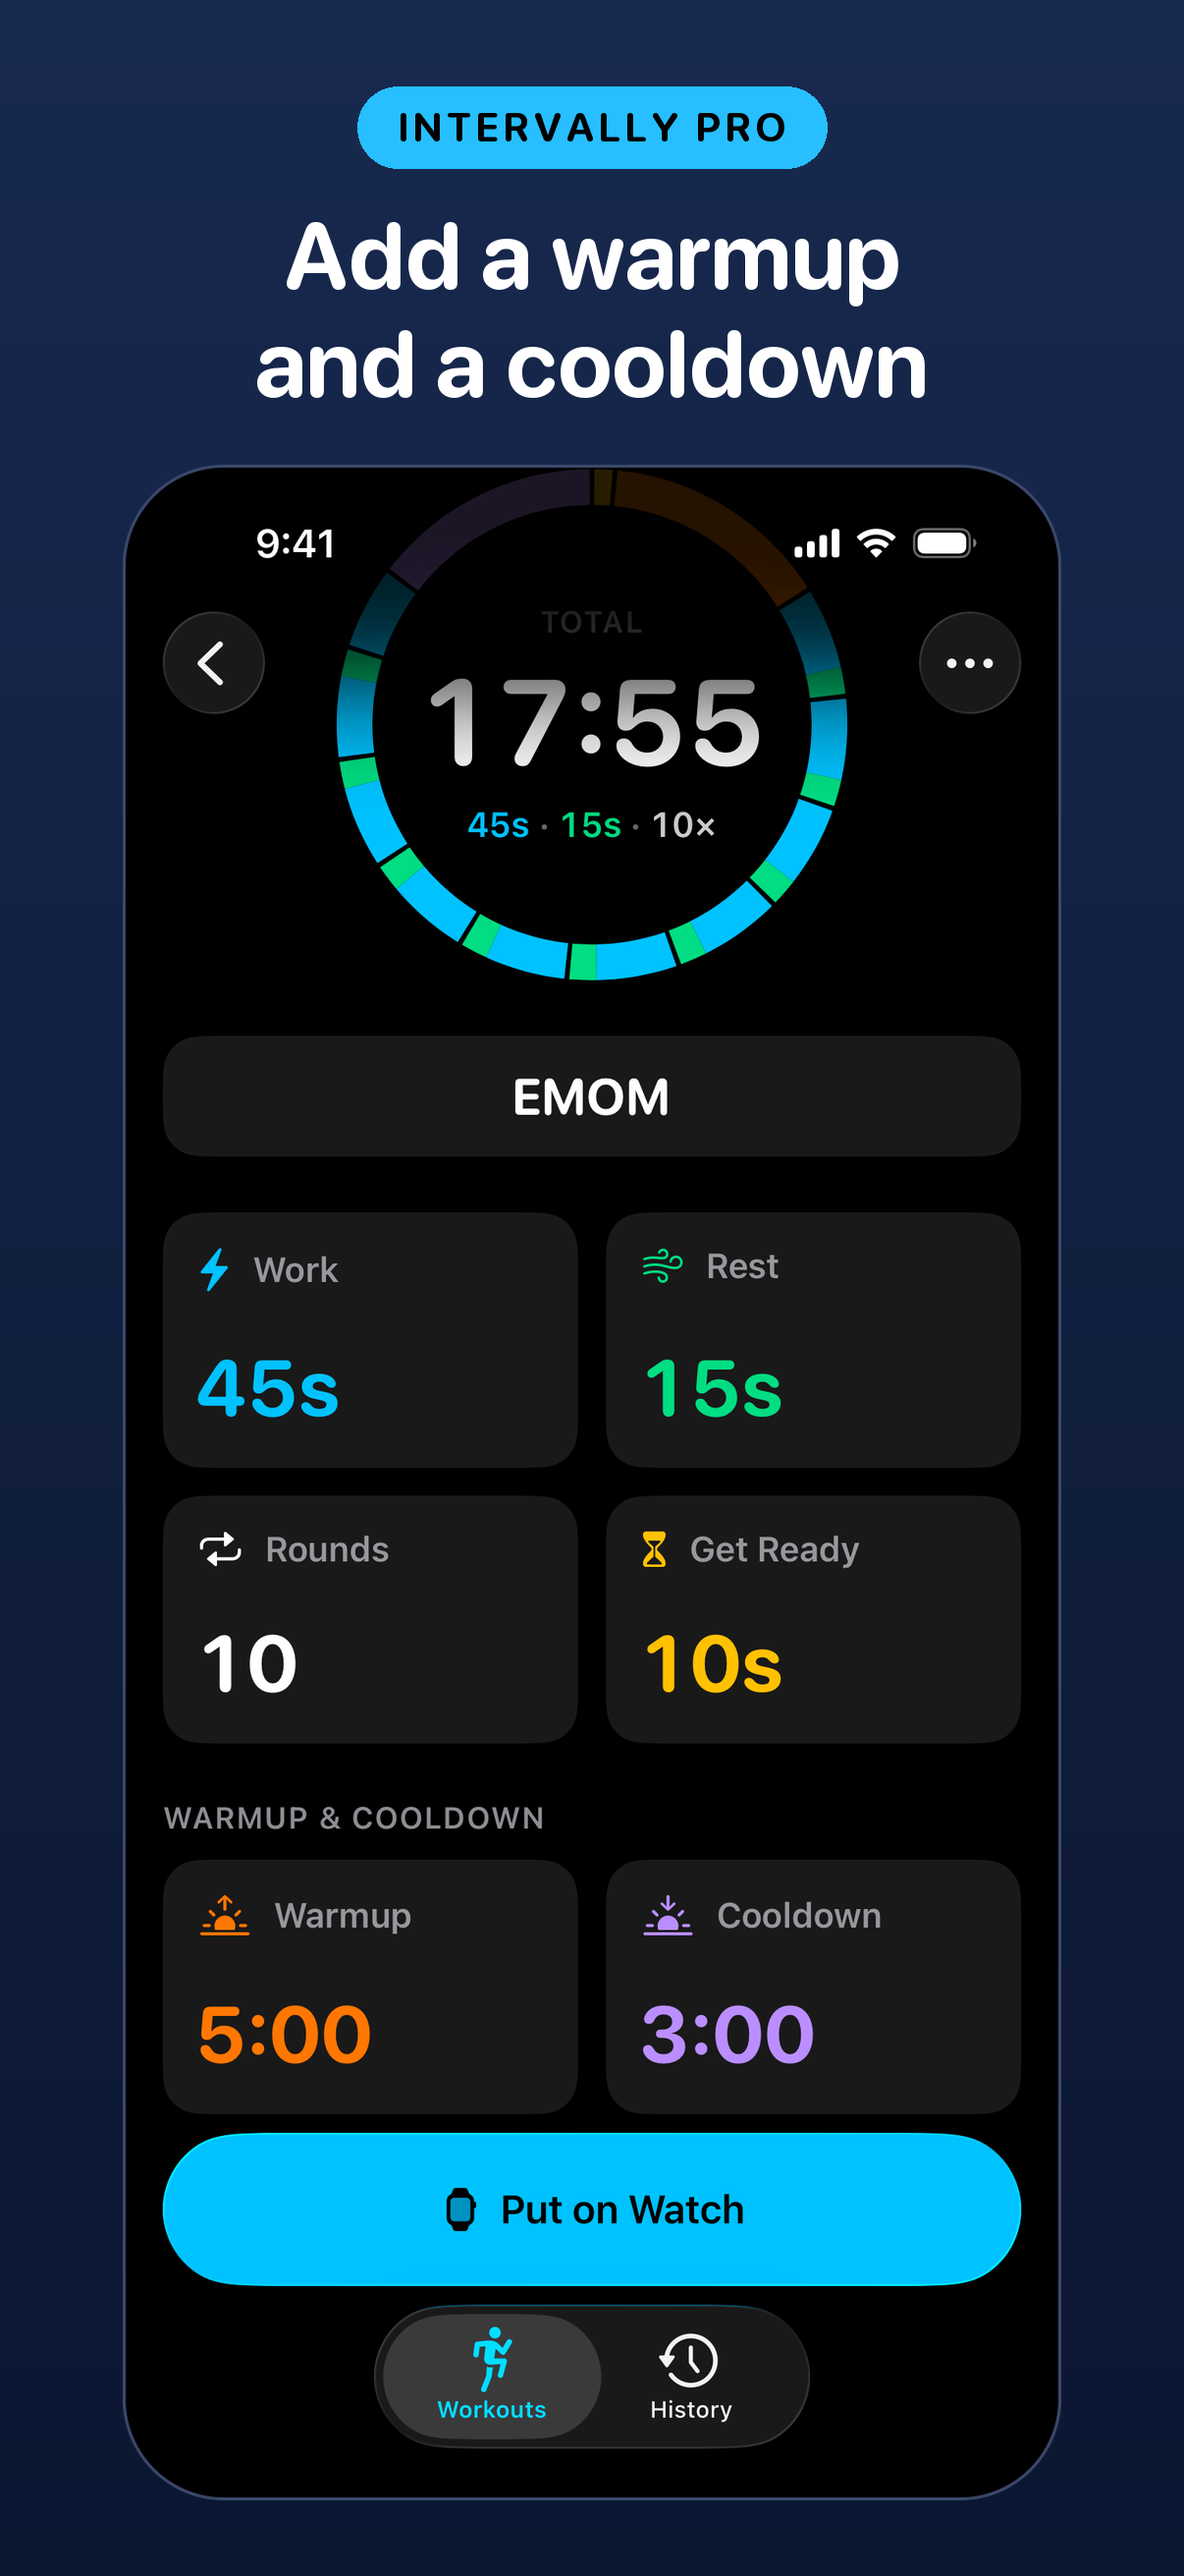
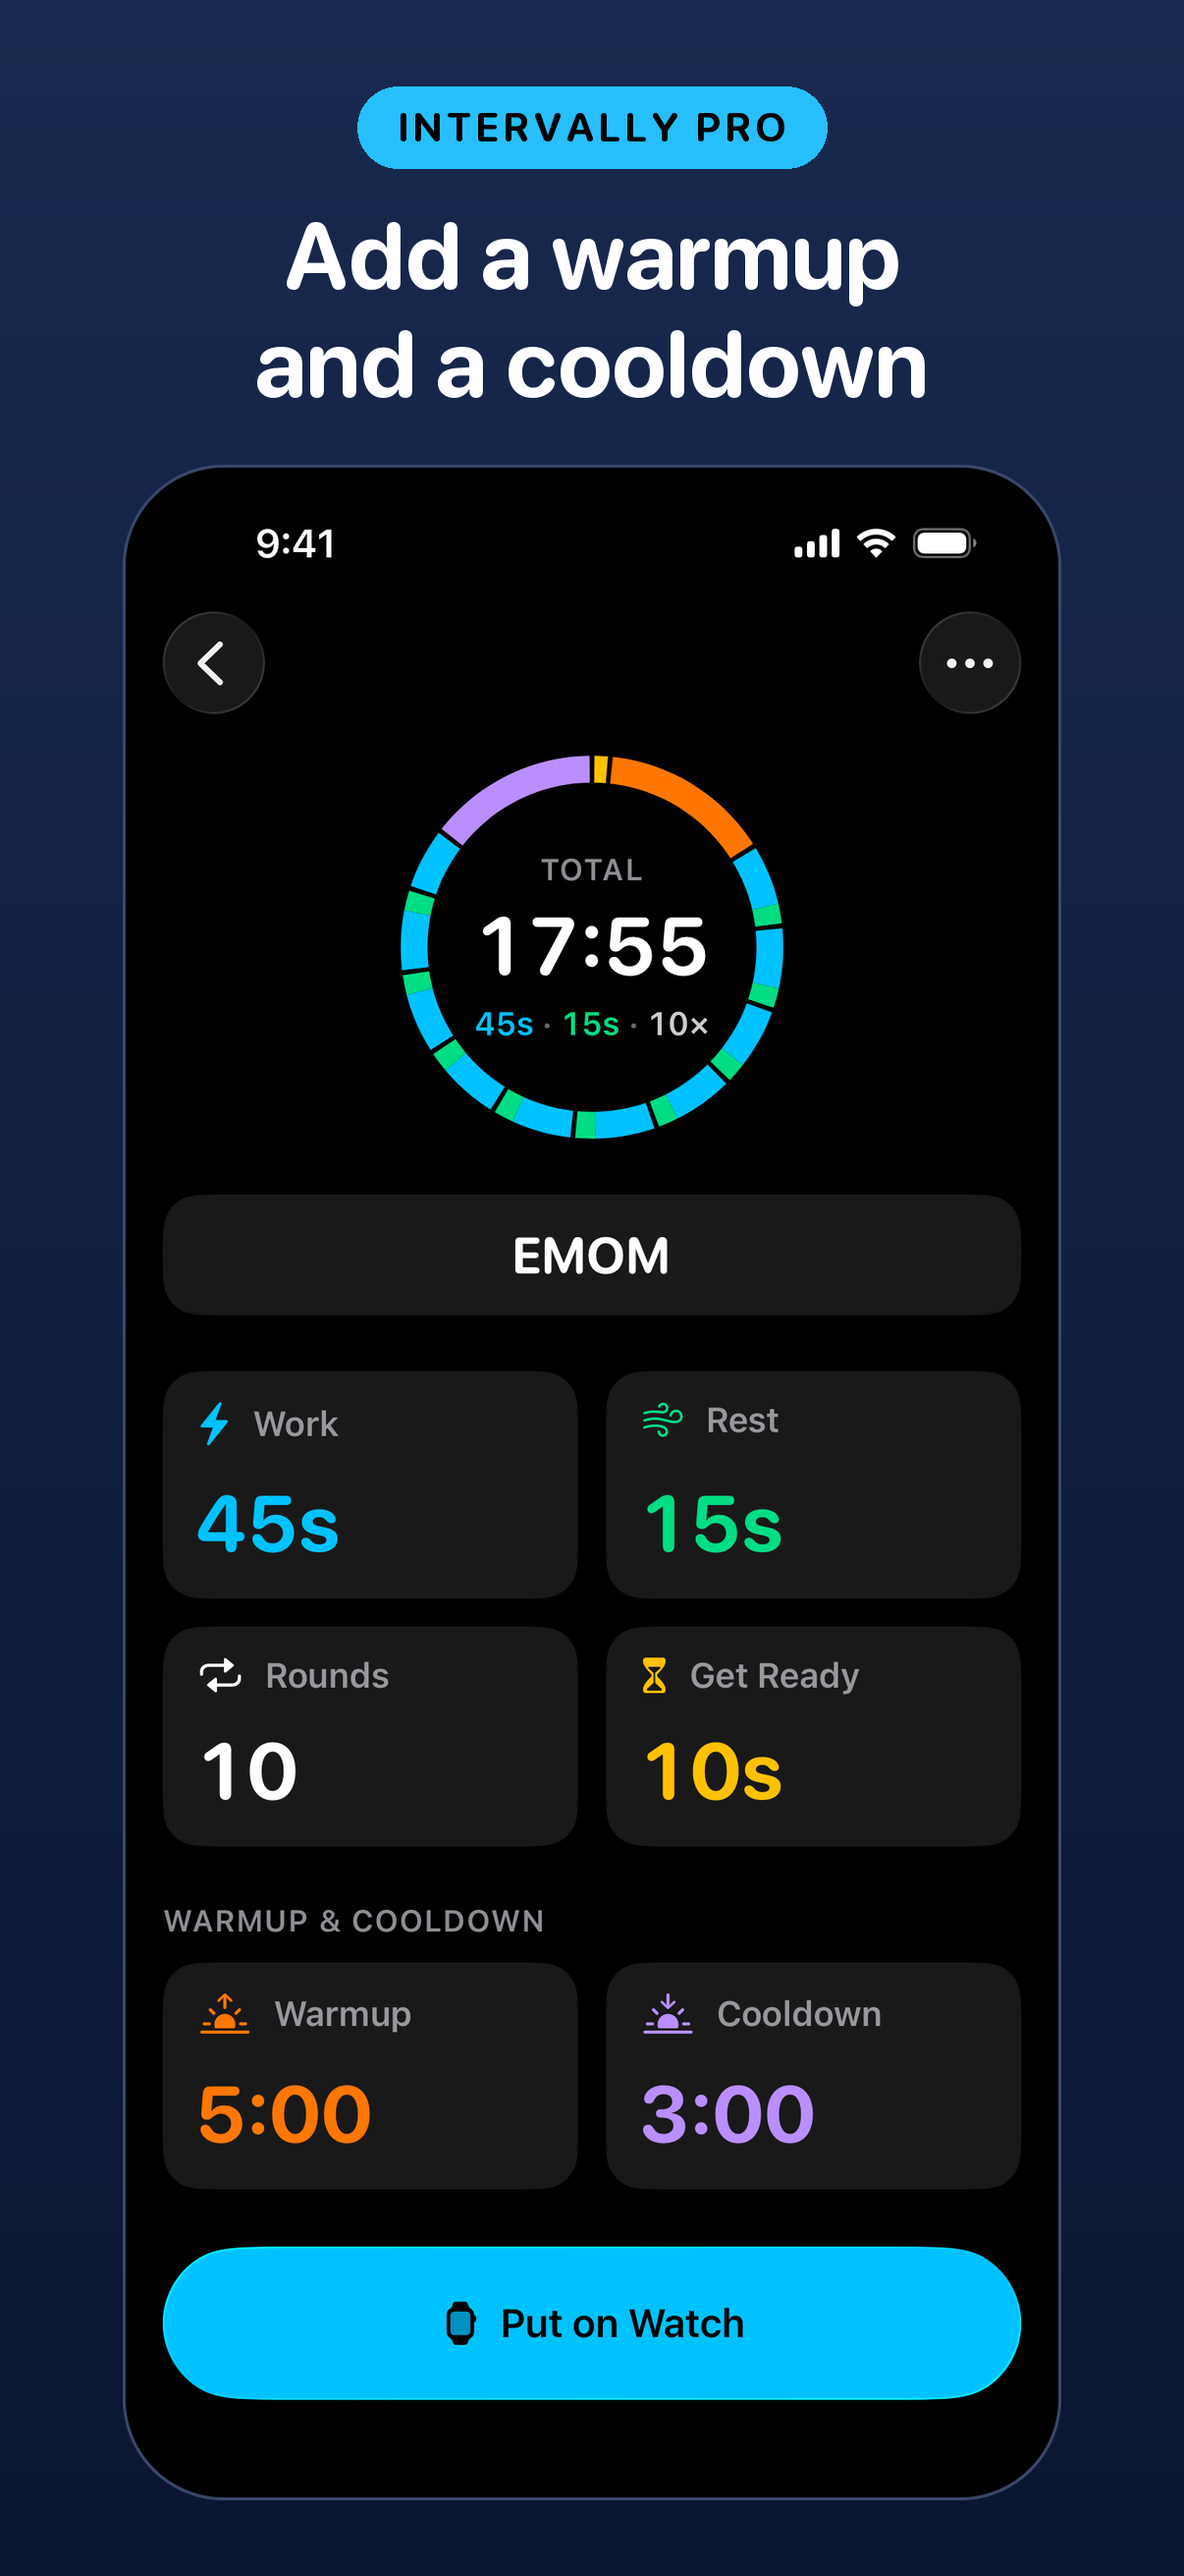
Fit the iPhone editor on a 6.3-inch screen
On an iPhone 17 Pro the editor's Warmup and Cooldown tiles sat under Put on
Watch and the tab bar, and the App Store shots had to be scrolled so far
that the ring ran under the status bar.

- The ring sizes itself from the measured room, 160 to 220 points
  (EditorLayout). The scroll view's frame already stops at the bars; its
  proxy reports them as insets too, so only the frame height is used.
- The editor hides the tab bar: a focused task with its own action at the
  bottom.
- The tiles are 16 points shorter (min height 88, tighter padding).
- The ring's words are narrowed to its chord at 160 points, where the
  rhythm line touched the ring at the largest text size.
- The 6.3" and 6.9" editor shots are retaken unscrolled. Shots 1, 4 and 5
  recompose byte-identical.

Checked on iPhone 17 Pro (default, xxxLarge, AX5), 17 Pro Max and SE: it
fits on 17 Pro and Pro Max, and on SE the ring stops at 160 and the editor
scrolls. iPhone suite: 234 tests pass.

Changed region(s): [[0.1227, 0.1854, 0.8897, 0.9577]]

diff --git a/Phone/Editor/PresetEditorView.swift b/Phone/Editor/PresetEditorView.swift
@@ -5,6 +5,23 @@
 
 import SwiftUI
 
+/// The editor's ring: as large as lets the whole editor fit on screen, from 160 to 220 points.
+/// At a fixed 220, a 6.3-inch iPhone had to scroll to reach Warmup and Cooldown, which sat
+/// under Put on Watch.
+enum EditorLayout {
+    static let ringSides: ClosedRange<CGFloat> = 160...220
+    /// The ring's top padding, the gap below it and the stack's bottom padding.
+    static let chrome: CGFloat = 8 + 24 + 24
+
+    /// For the scroll view's visible height and the height of everything below the ring. Until
+    /// both are measured, the full size.
+    static func ringSide(visibleHeight: CGFloat, belowRing: CGFloat) -> CGFloat {
+        guard visibleHeight > 0, belowRing > 0 else { return ringSides.upperBound }
+        let room = (visibleHeight - belowRing - chrome).rounded(.down)
+        return min(ringSides.upperBound, max(ringSides.lowerBound, room))
+    }
+}
+
 /// One preset, edited in place: every change is saved and synced as it is made, as on the
 /// watch, so there is nothing to save and nothing to lose.
 ///
@@ -32,6 +49,8 @@ struct PresetEditorView: View {
     @FocusState private var nameFocused: Bool
     /// Coming back from the copy Duplicate opened must not empty and refocus the name again.
     @State private var hasAppeared = false
+    @State private var visibleHeight: CGFloat = 0
+    @State private var belowRing: CGFloat = 0
 
     enum Sheet: Hashable, Identifiable {
         case picker(PresetField)
@@ -94,20 +113,26 @@ struct PresetEditorView: View {
 
         return ScrollView {
             VStack(spacing: 24) {
-                hero(runs)
-                nameField(workout)
-                tiles(workout, fields: [.work, .rest, .rounds, .prepare])
-                VStack(alignment: .leading, spacing: 10) {
-                    SectionLabel("Warmup & Cooldown")
-                    tiles(workout, fields: [.warmup, .cooldown])
+                hero(runs, side: EditorLayout.ringSide(visibleHeight: visibleHeight, belowRing: belowRing))
+                VStack(spacing: 24) {
+                    nameField(workout)
+                    tiles(workout, fields: [.work, .rest, .rounds, .prepare])
+                    VStack(alignment: .leading, spacing: 10) {
+                        SectionLabel("Warmup & Cooldown")
+                        tiles(workout, fields: [.warmup, .cooldown])
+                    }
+                    if sync.peer.hasWatch && !pinsPutOnWatch {
+                        putOnWatch(workout)
+                    }
                 }
-                if sync.peer.hasWatch && !pinsPutOnWatch {
-                    putOnWatch(workout)
-                }
+                .onGeometryChange(for: CGFloat.self) { $0.size.height } action: { belowRing = $0 }
             }
             .padding(.horizontal, 16)
             .padding(.bottom, 24)
         }
+        // Inside the pinned bar: the scroll view's frame stops at it and at the navigation bar.
+        // (Its proxy still reports both as insets; subtracting them counted them twice.)
+        .onGeometryChange(for: CGFloat.self) { $0.size.height } action: { visibleHeight = $0 }
         .blackCanvas()
         .scrollDismissesKeyboard(.interactively)
         .scrollEdgeEffectStyle(.hard, for: .bottom)
@@ -128,6 +153,9 @@ struct PresetEditorView: View {
         .navigationBarTitleDisplayMode(.inline)
         .toolbar(removing: .title)
         .toolbar { menu(workout) }
+        // A focused task with its own action at the bottom: the tabs come back with Back. With
+        // them, a 6.3-inch iPhone had no room for the ring at full size.
+        .toolbarVisibility(.hidden, for: .tabBar)
         .confirmationDialog("Delete “\(workout.name)”?", isPresented: $confirmingDelete, titleVisibility: .visible) {
             Button("Delete Workout", role: .destructive) {
                 if actions.delete(workout) { dismiss() }
@@ -151,9 +179,8 @@ struct PresetEditorView: View {
 
     /// The workout that will run, as one ring with its total inside: without Pro, without its
     /// bookends, exactly as the watch would run it.
-    private func hero(_ runs: IntervalWorkout) -> some View {
-        let side: CGFloat = 220
-        return ZStack {
+    private func hero(_ runs: IntervalWorkout, side: CGFloat) -> some View {
+        ZStack {
             SegmentedRing(plan: IntervalPlan(workout: runs), strokeRatio: 0.07)
             VStack(spacing: 4) {
                 Text("Total")
@@ -162,7 +189,7 @@ struct PresetEditorView: View {
                     .kerning(0.6)
                     .foregroundStyle(.secondary)
                 Text(DurationFormat.timer(runs.totalSeconds))
-                    .font(.hero(52))
+                    .font(.hero((52 * side / EditorLayout.ringSides.upperBound).rounded()))
                     .lineLimit(1)
                     .minimumScaleFactor(0.45)
                 RhythmLine(workout: runs)
@@ -170,7 +197,9 @@ struct PresetEditorView: View {
                     .lineLimit(1)
                     .minimumScaleFactor(0.6)
             }
-            .padding(.horizontal, side * 0.15)
+            // Narrow enough for the ring's chord at the rhythm line's height at 160 points,
+            // where 0.15 let the line touch the ring at the largest text size.
+            .padding(.horizontal, side * 0.19)
             // The ring is a fixed size, so the words inside stop growing where they would no
             // longer fit; the tiles below carry the same values at any size.
             .dynamicTypeSize(...DynamicTypeSize.xxxLarge)

diff --git a/PhoneTests/SmallScreenLayoutTests.swift b/PhoneTests/SmallScreenLayoutTests.swift
@@ -35,6 +35,26 @@ struct SmallScreenLayoutTests {
         #expect(Welcome.ringSide(forHeight: 0) == 140)
     }
 
+    @Test("The editor's ring is full size until it is measured, and wherever there is room")
+    func editorRingFullSize() {
+        #expect(EditorLayout.ringSide(visibleHeight: 0, belowRing: 0) == 220)
+        #expect(EditorLayout.ringSide(visibleHeight: 900, belowRing: 560) == 220)
+    }
+
+    /// Measured on an iPhone 17 Pro, free, default text size: 664 points between the
+    /// navigation bar and Put on Watch, 418 of them below the ring.
+    @Test("On a 6.3-inch iPhone the ring shrinks until the whole editor fits")
+    func editorRingFits() {
+        let side = EditorLayout.ringSide(visibleHeight: 664, belowRing: 418)
+        #expect(side == 190)
+        #expect(side + 418 + EditorLayout.chrome <= 664)
+    }
+
+    @Test("The editor's ring never shrinks below 160 points; past that the editor scrolls")
+    func editorRingSmallest() {
+        #expect(EditorLayout.ringSide(visibleHeight: 500, belowRing: 560) == 160)
+    }
+
     /// At the accessibility sizes each wheel value overlapped the next on an iPhone SE.
     @Test("Wheel rows follow the text size up to the largest standard one, and stop there")
     func wheelRowsStopGrowing() {

diff --git a/Phone/Editor/EditorTile.swift b/Phone/Editor/EditorTile.swift
@@ -36,7 +36,7 @@ struct EditorTile: View {
         let field = content.field
 
         Button(action: action) {
-            VStack(alignment: .leading, spacing: 10) {
+            VStack(alignment: .leading, spacing: 6) {
                 Label {
                     Text(field.title)
                         .font(.subheadline.weight(.semibold))
@@ -61,8 +61,9 @@ struct EditorTile: View {
                         .font(.headline)
                 }
             }
-            .padding(14)
-            .frame(maxWidth: .infinity, minHeight: 104, alignment: .leading)
+            .padding(.horizontal, 14)
+            .padding(.vertical, 12)
+            .frame(maxWidth: .infinity, minHeight: 88, alignment: .leading)
             .tileBackground()
             .contentShape(RoundedRectangle(cornerRadius: 16, style: .continuous))
         }

diff --git a/AppStore/Metadata.md b/AppStore/Metadata.md
@@ -216,9 +216,8 @@ into these files at the same size. To retake them, in a Debug build:
 - Launch with `-phone.welcomeSeen.v1 YES -qaWatch installed` and `-qaPro free`, or
   `-qaPro pro` for shot 3.
 - Shot 3 sets its bookends with `-qaEdit "warmup 2 300; cooldown 2 180"`. Open Tabata
-  (shot 2) and EMOM (shot 3) from the library, then scroll until the Warmup and Cooldown
-  tiles clear the Put on Watch capsule, on both phones. Unscrolled, the 6.3" shot 2 showed
-  the section's header with both tiles hidden under the capsule and the tab bar.
+  (shot 2) and EMOM (shot 3) from the library. Nothing needs scrolling: the editor hides
+  the tab bar and sizes its ring so the whole editor fits on both phones.
 - Shots 4 and 5 use `-qaHistory sample -qaOpen history` and `-qaOpen session`. The sample
   sessions are a fixture: nothing is read from or written to Health (Guideline 5.1.3(ii)).
 - Override the status bar with `simctl status_bar <udid> override --time 9:41

diff --git a/README.md b/README.md
@@ -161,7 +161,9 @@ timers". Two tabs, each with a gear for Settings:
 
 - **Workouts.** The preset the watch starts next, then the library. A preset's editor has a
   tile per number; each opens a wheel with exactly the values the crown turns over
-  (`PresetField`, `ValueSteps`). Put on Watch makes it the watch's next workout. Adding is
+  (`PresetField`, `ValueSteps`). Put on Watch makes it the watch's next workout. The
+  editor hides the tab bar and sizes its ring to fit (`EditorLayout`), so on a 6.3" iPhone
+  nothing is below the fold. Adding is
   gated as on the watch, and a purchase finishes what the paywall interrupted.
 - **History.** The interval workouts the watch saved to Health, grouped by week, each with
   its rounds, heart rate per interval and energy. Read-only: the iPhone never writes to
